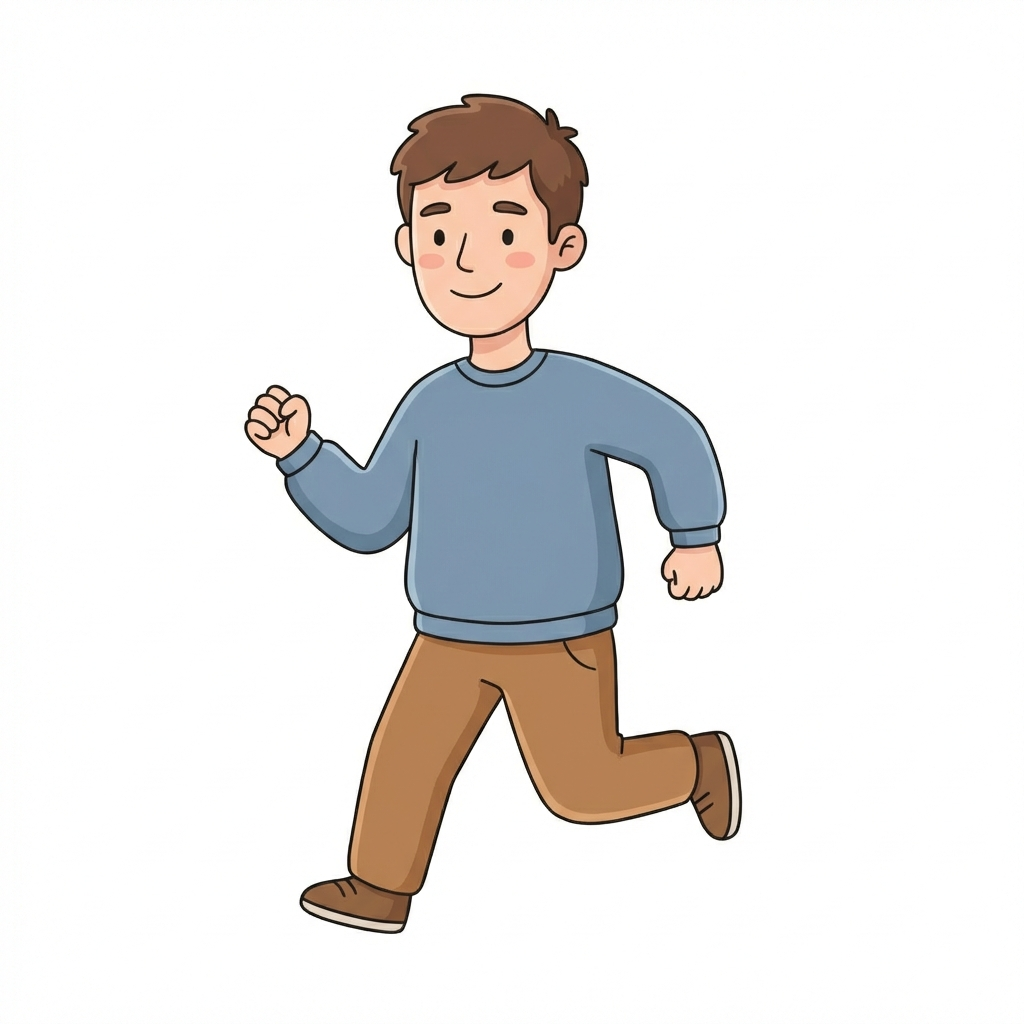
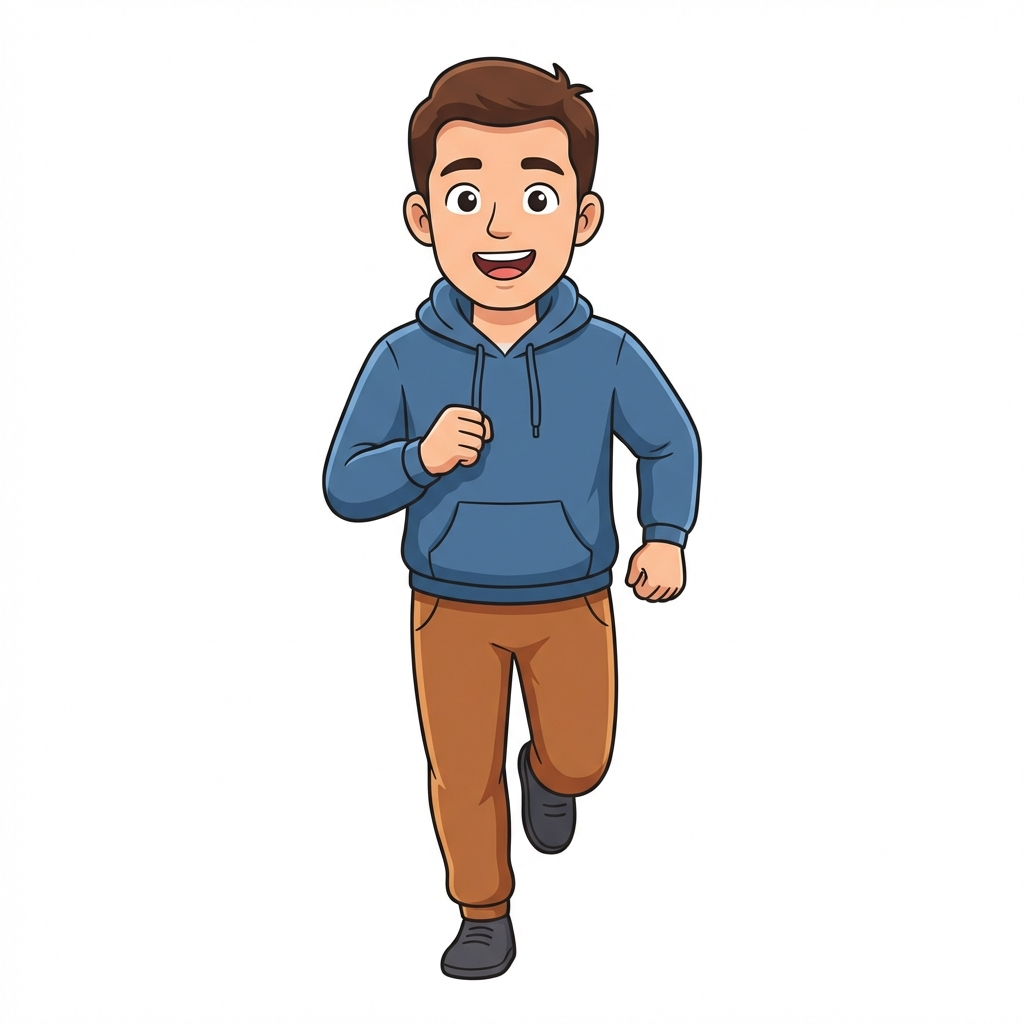
Evolve art style to Modern Storybook and regenerate all character assets (Sam, Yak, Cat, Rat, Man)

Changed region(s): [[0.2188, 0.0312, 0.75, 0.9688]]

diff --git a/.agent/workflows/generate-art.md b/.agent/workflows/generate-art.md
@@ -8,25 +8,28 @@ This document serves as the source of truth for generating images for the Story 
 
 ## Core Art Style Definition
 
-The art style is designed to be **calm, clear, and easily processable** for young children. It avoids overstimulation and ambiguity.
+The art style is **Modern Storybook**. It is designed to be **calm, clear, and high-quality**, featuring character designs with a crisp vector look and expressive features.
 
 **Key Characteristics:**
-*   **Medium/Technique:** Soft vector illustration. It should look digital but organic, not mechanical.
-*   **Line Work:** Clear black outlines defining shapes. Use thin but distinct black strokes to separate colors and define the character's form. Avoid lineless or fuzzy edges.
-*   **Color Palette:** Calm, soothing colors.
-    *   Use: Pastels, soft earth tones, muted primaries.
-    *   Avoid: Neon colors, jarring contrasts, overly saturated "electric" hues.
-*   **Shading & Lighting:** Simple shading.
-    *   Use: Flat shading or soft, subtle gradients to show form.
-    *   Avoid: Harsh cast shadows, complex realistic lighting, dramatic noir lighting.
-*   **Realism Level:** Semi-realistic / Stylized Realism.
-    *   Proportions should be generally realistic (not super-deformed or abstract).
+*   **Medium/Technique:** Digital vector illustration with clean, crisp edges.
+*   **Line Work:** Clear black outlines. Use distinct, consistent black strokes (like a clean ink felt-pen) to define all shapes and features. Avoid lineless, fuzzy, or sketchy edges.
+*   **Color Palette:** Clean, vibrant but calm colors.
+    *   Use: Soft primary colors, warm earth tones, and clear secondary colors.
+    *   Avoid: Neon, overly muted/muddy tones, or complex textures.
+*   **Characters:** Modern storybook character designs.
+    *   **Eyes:** Large, expressive eyes (classic storybook style, e.g., similar to modern Disney or Ghibli but simpler). Clear circular or oval pupils with a small white highlight. Avoid complex anime reflections or exaggerated "sparkle" shapes.
+    *   **Hair:** Stylized but clean hair shapes with simple, solid highlights and shadows. No overly complex or "spiky" anime hair tropes.
+    *   **Proportions:** Balanced and appealing (classic children's book proportions). Avoid extreme Chibi or tall, thin anime proportions.
+    *   **Friendly & Approachable:** Characters should have warm, kind, and relatable energy.
+*   **Shading & Lighting:** Simple cel-shading.
+    *   Use: 1-2 levels of flat shadow to show form. Soft highlights on hair and eyes.
+    *   Avoid: Complex gradients, realistic textures, or dramatic lighting.
+*   **Realism Level:** Stylized Anime Realism.
     *   **No Anthropomorphism:** Inanimate objects (buses, trees, clouds) do **NOT** have faces or human traits.
-    *   Characters should feel friendly and approachable.
 *   **Composition & Format:**
     *   **Aspect Ratio:** Always maintain an **11:10** aspect ratio.
     *   **Background:** Always use a solid white background (**#FFFFFF**).
-    *   **Whitespace:** Minimize whitespace; the subject should fill the frame as much as possible while maintaining the aspect ratio and a clean look.
+    *   **Whitespace:** The subject should be centered and fill most of the frame, with minimal but balanced whitespace.
 
 ## Character Consistency
 
@@ -60,13 +63,13 @@ To ensure consistency, generate character reference sheets with the following va
 
 ## Prompting Strategy
 
-When creating prompts for image generation models, follow this structure:
+When creating prompts, follow this structure to maintain the Modern Storybook Anime style:
 
 ```markdown
 **Subject:** [Character Name] doing [Action] in [Setting].
-**Style Modifiers:** soft vector illustration, children's book style, K-2 audience, calm atmosphere, pastel colors, clear lines, simple shading, flat design style.
+**Style Modifiers:** digital vector illustration, modern storybook style, high quality, K-2 audience, calm atmosphere, clean vibrant colors, clear black outlines, simple cel-shading, large expressive eyes, friendly expression.
 **Format:** 11:10 aspect ratio, solid white background #FFFFFF, minimal whitespace, subject fills frame.
-**Negative Prompts:** realistic photo, 3d render, shiny, complex details, scary, dark, night, neon, messy lines, sketch, face on object.
+**Negative Prompts:** lineless, fuzzy, 3d render, realistic photo, shiny, complex textures, scary, dark, night, neon, messy lines, sketch, face on object, extreme muscle definition, Chibi proportions.
 ```
 
 ## Examples of Usage

diff --git a/Characters/Sam/PROMPTS.md b/Characters/Sam/PROMPTS.md
@@ -12,13 +12,13 @@ Negative: lineless, fuzzy edges, realistic photo, 3d render, shiny, complex deta
 ```
 **Result:** [sam_standing.png](file:///Users/ricky/workspace/StorySliderArt/Characters/Sam/sam_standing.png)
 
-## Standing Pose (Story Refined - Brown Hair)
+## Standing Pose (Modern Storybook - 6yo)
 **Prompt:**
 ```markdown
-Subject: Sam, a young boy with soft messy brown hair, standing and looking forward. He is wearing a blue sweatshirt, brown pants, and simple brown shoes. 
-Style: soft vector illustration, children's book style, K-2 audience, calm atmosphere, pastel colors, clear lines, simple shading, flat design style. 
+Subject: Sam, a 6-year-old young boy with slightly messy brown hair, standing and looking forward. He has younger, softer facial features and slightly more rounded proportions to reflect his age. He has large expressive eyes (clean storybook style, no anime sparkles). He is wearing a blue hoodie over a cream t-shirt and tan cargo shorts with red sneakers. 
+Style: digital vector illustration, modern storybook style, high quality, K-2 audience, calm atmosphere, clean vibrant colors, clear thin black outlines, simple cel-shading, friendly expression. 
 Format: 11:10 aspect ratio, solid white background #FFFFFF, minimal whitespace, subject fills frame. 
 Composition: Full body view. No background objects. 
-Negative: yellow hair, blonde hair, black hair, rug, teddy bear, book, complex fur, messy lines, flower, detail, realistic, 3d render, shiny, scary, dark, night, neon, messy lines, sketch, face on object.
+Negative: anime, sparkles, complex eye reflections, older boy, teenager, spiky hair, lineless, fuzzy, 3d render, realistic photo, shiny, complex textures, scary, dark, night, neon, messy lines, sketch, face on object.
 ```
-**Result:** [sam_story_v2.png](file:///Users/ricky/workspace/StorySliderArt/Characters/Sam/sam_story_v2.png)
+**Result:** [sam_standing_v3.png](file:///Users/ricky/workspace/StorySliderArt/Characters/Sam/sam_standing_v3.png)

diff --git a/Characters/Man/PROMPTS.md b/Characters/Man/PROMPTS.md
@@ -1,13 +1,13 @@
 # Man - Image Generation Prompts
 
-## Running Pose (Final - Sam Style)
+## Running Pose (Modern Storybook)
 **Prompt:**
 ```markdown
-Subject: An adult male running forward with a friendly, happy expression. He has short brown hair. He is wearing a soft blue sweatshirt and warm brown athletic pants, matching the color palette and style of the character Sam. 
-Style: soft vector illustration, children's book style, K-2 audience, calm atmosphere, soft pastel colors, clear thin black outlines, simple shading, flat design style. 
+Subject: An adult male running forward with a friendly, happy expression. He has short brown hair. He is wearing a blue sweatshirt and warm brown athletic pants, matching the color palette and style of the character Sam. He has large expressive eyes (clean storybook style, no anime sparkles). 
+Style: digital vector illustration, modern storybook style, high quality, K-2 audience, calm atmosphere, clean vibrant colors, clear thin black outlines, simple cel-shading, friendly expression. 
 Format: 11:10 aspect ratio, solid white background #FFFFFF, minimal whitespace, subject fills frame. 
 Composition: Full body view. No background objects. 
-Key Feature: Identical art style to Sam, with a cozy storybook feel rather than a modern athletic look. Clear black outlines. 
-Negative: neon colors, grey shorts, bright yellow stripes, realistic photo, 3d render, shiny, complex details, scary, dark, night, neon, messy lines, sketch, face on object, extreme muscle definition.
+Key Feature: Identical art style to Sam (6yo master), but as an adult male. 
+Negative: anime, sparkles, complex eye reflections, neon colors, grey shorts, bright yellow stripes, realistic photo, 3d render, shiny, complex details, scary, dark, night, neon, messy lines, sketch, face on object, extreme muscle definition.
 ```
 **Result:** [man_running.png](file:///Users/ricky/workspace/StorySliderArt/Characters/Man/man_running.png)

diff --git a/Characters/Yak/PROMPTS.md b/Characters/Yak/PROMPTS.md
@@ -1,12 +1,10 @@
-# Yak - Image Generation Prompts
-
-## Standing Pose (Simplified & Resized)
+## Standing Pose (Modern Storybook)
 **Prompt:**
 ```markdown
-Subject: A friendly yak, standing and looking forward. Simplified shapes, low visual complexity, very clean and easy to process. It has warm brown and creamy white fur and curved grey horns. 
-Style: soft vector illustration, children's book style, K-2 audience, calm atmosphere, pastel colors, clear lines, extremely simple shading, flat design style. 
+Subject: A friendly yak, standing and looking forward. It has warm brown and creamy white fur. It has large, expressive black eyes (clean storybook style, no anime sparkles) and curved grey horns. 
+Style: digital vector illustration, modern storybook style, high quality, K-2 audience, calm atmosphere, clean vibrant colors, clear thin black outlines, simple cel-shading, friendly expression. 
 Format: 11:10 aspect ratio, solid white background #FFFFFF, minimal whitespace, subject fills frame. 
 Composition: Full body view. No background objects. 
-Negative: complex fur, messy lines, flower, detail, realistic, 3d render, shiny, scary, dark, night, neon, sketch, face on object.
+Negative: anime, sparkles, complex eye reflections, flower, busy detail, realistic, 3d render, shiny, scary, dark, night, neon, messy lines, sketch, face on object.
 ```
 **Result:** [yak_standing.png](file:///Users/ricky/workspace/StorySliderArt/Characters/Yak/yak_standing.png)

diff --git a/Characters/Cat/PROMPTS.md b/Characters/Cat/PROMPTS.md
@@ -1,12 +1,12 @@
 # Cat - Image Generation Prompts
 
-## Sitting Pose (Reference)
+## Sitting Pose (Modern Storybook)
 **Prompt:**
 ```markdown
-Subject: A cute and friendly orange tabby cat, sitting and looking forward. It has soft orange fur with subtle tabby stripes and a friendly expression. 
-Style: soft vector illustration, children's book style, K-2 audience, calm atmosphere, pastel colors, clear lines, simple shading, flat design style. 
+Subject: A cute and friendly orange tabby cat, sitting and looking forward. It has soft orange fur with subtle tabby stripes. It has large, expressive black eyes (clean storybook style, no anime sparkles) and a friendly expression. 
+Style: digital vector illustration, modern storybook style, high quality, K-2 audience, calm atmosphere, clean vibrant colors, clear thin black outlines, simple cel-shading, friendly expression. 
 Format: 11:10 aspect ratio, solid white background #FFFFFF, minimal whitespace, subject fills frame. 
 Composition: Full body view. No background objects. 
-Negative: realistic photo, 3d render, shiny, complex details, scary, dark, night, neon, messy lines, sketch, face on object.
+Negative: anime, sparkles, complex eye reflections, realistic photo, 3d render, shiny, complex details, scary, dark, night, neon, messy lines, sketch, face on object.
 ```
 **Result:** [cat_sitting.png](file:///Users/ricky/workspace/StorySliderArt/Characters/Cat/cat_sitting.png)

diff --git a/Characters/Rat/PROMPTS.md b/Characters/Rat/PROMPTS.md
@@ -1,12 +1,12 @@
 # Rat - Image Generation Prompts
 
-## Running Pose (Reference)
+## Running Pose (Modern Storybook)
 **Prompt:**
 ```markdown
-Subject: A cute and friendly rat, running joyfully. It has a mischievous but sweet expression, soft grey and white fur, and small pink ears. 
-Style: soft vector illustration, children's book style, K-2 audience, calm atmosphere, pastel colors, clear lines, simple shading, flat design style. 
+Subject: A cute and friendly rat, running joyfully. It has a mischievous but sweet expression, soft grey and white fur, and small pink ears. It has large, expressive black eyes (clean storybook style, no anime sparkles). 
+Style: digital vector illustration, modern storybook style, high quality, K-2 audience, calm atmosphere, clean vibrant colors, clear thin black outlines, simple cel-shading, friendly expression. 
 Format: 11:10 aspect ratio, solid white background #FFFFFF, minimal whitespace, subject fills frame. 
 Composition: Full body view. No background objects. 
-Negative: realistic photo, 3d render, shiny, complex details, scary, dark, night, neon, messy lines, sketch, face on object.
+Negative: anime, sparkles, complex eye reflections, realistic photo, 3d render, shiny, complex details, scary, dark, night, neon, messy lines, sketch, face on object.
 ```
 **Result:** [rat_running.png](file:///Users/ricky/workspace/StorySliderArt/Characters/Rat/rat_running.png)

diff --git a/Characters/Man/CHARACTER.md b/Characters/Man/CHARACTER.md
@@ -1,9 +1,8 @@
 # Character Description: Man
 
-**Role:** Adult Male.
-**Appearance:**
-*   **Features:** Friendly, happy, and determined expression.
-*   **Clothing:** Blue sweatshirt and warm brown pants (matching Sam's palette).
+*   **Style:** Modern Storybook style matching Sam (6yo master version).
+*   **Facial Features:** Friendly happy expression, large expressive eyes (simple storybook style).
+*   **Clothing:** Blue sweatshirt, warm brown athletic pants matching Sam's palette.
 *   **Style:** Cozy storybook feel with clear black outlines.
 *   **Background:** Always #FFFFFF white.
 **Personality:** Energetic, positive, and focused.

diff --git a/Characters/Yak/CHARACTER.md b/Characters/Yak/CHARACTER.md
@@ -3,8 +3,8 @@
 **Age Group:** K-2 Appropriate.
 **Appearance:**
 *   **Fur:** Warm brown and creamy white fur. Simplified shapes, low visual complexity.
-*   **Features:** Friendly face, large gentle eyes, small smile, and curved grey horns.
-*   **Atmosphere:** Warm and inviting color palette.
+*   **Facial Features:** Friendly face, large gentle expressive eyes (simple storybook style), and curved grey horns.
+*   **Style:** Modern Storybook style with clear black outlines and simple cel-shading.
 *   **Background:** Always #FFFFFF white.
 **Personality:** Gentle, steady, and kind.
 

diff --git a/Characters/Rat/CHARACTER.md b/Characters/Rat/CHARACTER.md
@@ -3,7 +3,8 @@
 **Age Group:** K-2 Appropriate.
 **Appearance:**
 *   **Fur:** Soft grey and white fur.
-*   **Features:** Cute, mischievous but friendly expression, small pink ears, and a joyful running pose.
+*   **Facial Features:** Mischievous but sweet expression, large expressive black eyes (simple storybook style).
+*   **Style:** Modern Storybook style with clear black outlines and simple cel-shading.
 *   **Background:** Always #FFFFFF white.
 **Personality:** Mischievous, joyful, and sweet.
 

diff --git a/Characters/Cat/CHARACTER.md b/Characters/Cat/CHARACTER.md
@@ -3,7 +3,8 @@
 **Age Group:** K-2 Appropriate.
 **Appearance:**
 *   **Breed:** Orange Tabby.
-*   **Features:** Cute, friendly face, large eyes, small pink nose, and subtle orange stripes.
+*   **Facial Features:** Friendly expression, large expressive black eyes (simple storybook style).
+*   **Style:** Modern Storybook style with clear black outlines and simple cel-shading.
 *   **Pose:** Sitting.
 *   **Background:** Always #FFFFFF white.
 **Personality:** Friendly, curious, and sweet.

diff --git a/.agent/skills/story-art/SKILL.md b/.agent/skills/story-art/SKILL.md
@@ -1,6 +1,6 @@
 ---
 name: Story Art Generation
-description: Guidelines and workflows for generating calm, K-2 appropriate vector illustrations for the Story Slider project.
+description: Guidelines and workflows for generating calm, K-2 appropriate modern storybook illustrations for the Story Slider project.
 ---
 
 # Story Art Generation Skill

diff --git a/Characters/Sam/CHARACTER.md b/Characters/Sam/CHARACTER.md
@@ -1,6 +1,6 @@
 # Character Description: Sam
 
-**Age Group:** K-2 (roughly 5-7 years old).
+**Age Group:** 6 years old (K-2 Appropriate).
 **Appearance:**
 *   **Hair:** Messy but soft brown hair.
 *   **Facial Features:** Friendly, simple features, large expressive eyes, small smile.
